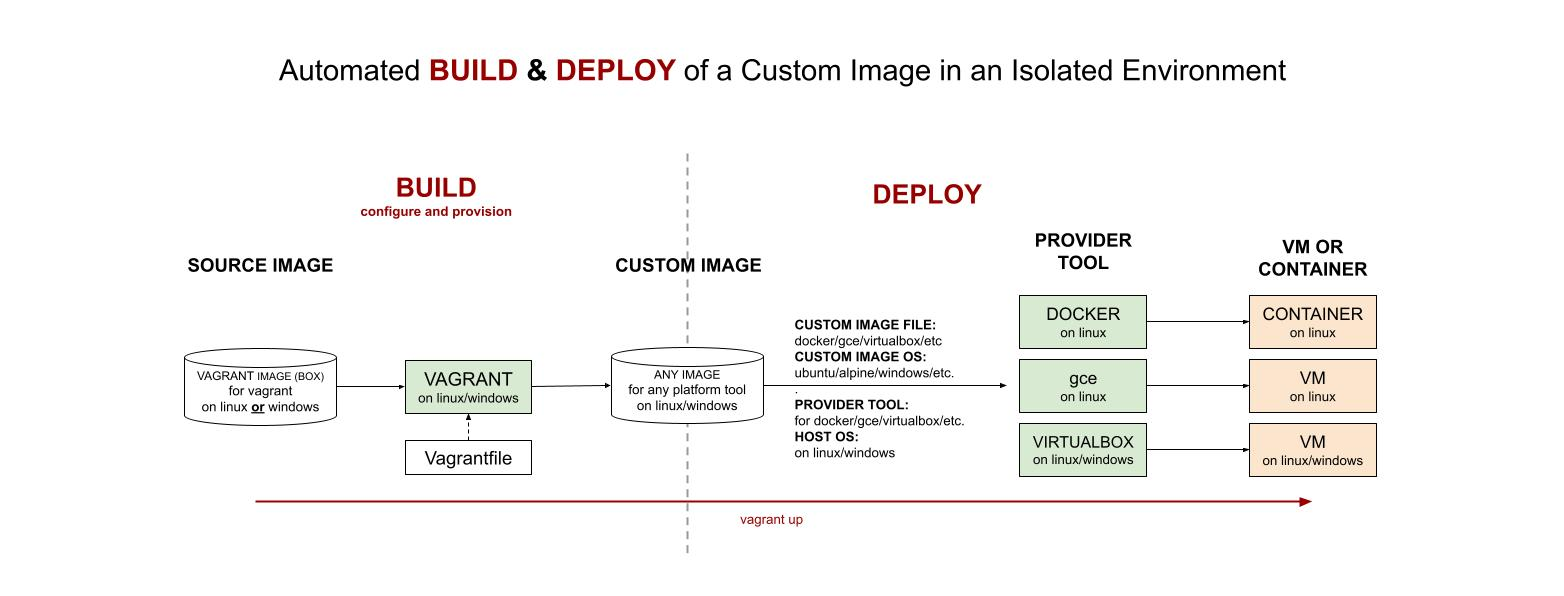
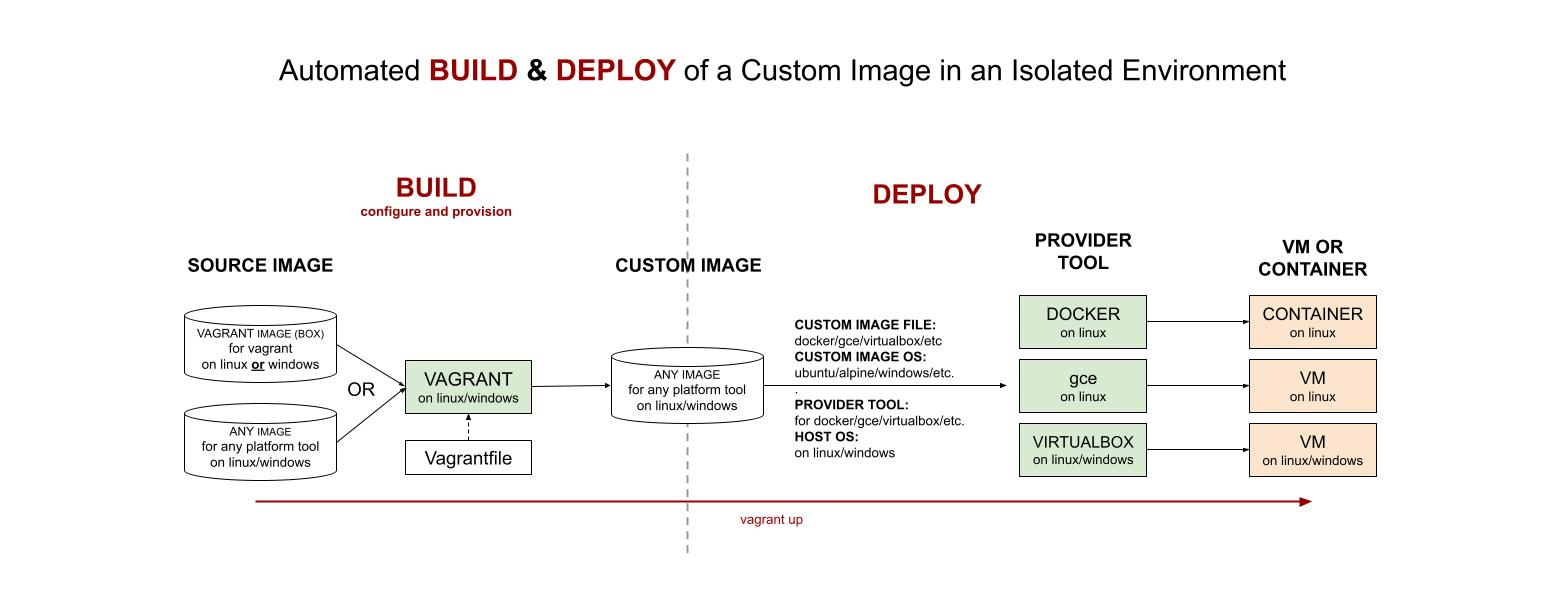
udpated pic and make it clear the srouce image could be vagrant or another type

Changed region(s): [[0.1228, 0.5134, 0.2762, 0.8154]]

diff --git a/README.md b/README.md
@@ -57,12 +57,14 @@ for a project because you only need a Vagrantfile.
 These builds and deploys use the following statement,
 
 **Using vagrant to build a/an {CUSTOM IMAGE FILE} image
+from a {SOURCE IMAGE FILE}
 containing the {CUSTOM IMAGE OS} OS
 to deploy on {PROVIDER TOOL} on {HOST OS}.**
 
 Where,
 
 * **CUSTOM IMAGE FILE**: docker/gce/virtualbox/etc.
+* **SOURCE IMAGE FILE**: docker/gce/virtualbox/etc.
 * **CUSTOM IMAGE OS**: ubuntu/alpine/windows/etc.
 * **PROVIDER TOOL**: docker/gce/virtualbox/etc.
 * **HOST OS**: linux/windows _(not needed)_
@@ -71,9 +73,17 @@ Where,
 
 _I'm not sure anyone would use this since you can just use docker._
 
+* [vagrant-alpine-deploy-docker](https://github.com/JeffDeCola/my-vagrant-boxes/tree/master/docker/vagrant-ubuntu-2004-deploy-docker)
+
+  _Using vagrant to build a docker image
+  **from a docker image**
+  containing the alpine OS
+  to deploy on docker._
+
 * [vagrant-ubuntu-2004-deploy-docker](https://github.com/JeffDeCola/my-vagrant-boxes/tree/master/docker/vagrant-ubuntu-2004-deploy-docker)
 
   _Using vagrant to build a docker image
+  **from a vagrant image**
   containing the ubuntu 20.04 OS
   to deploy on docker._
 
@@ -84,11 +94,13 @@ _You may run this on linux or windows._
 * [vagrant-ubuntu-2204-deploy-virtualbox](https://github.com/JeffDeCola/my-vagrant-boxes/tree/master/virtualbox/vagrant-ubuntu-2204-deploy-virtualbox)
 
   _Using vagrant to build a virtualbox image
+  **from a vagrant image**
   containing the ubuntu 22.04 OS
   to deploy on virtualbox._
 
 * [vagrant-windows-11-deploy-virtualbox](https://github.com/JeffDeCola/my-vagrant-boxes/tree/master/virtualbox/vagrant-windows-11-deploy-virtualbox)
 
   _Using vagrant to build a virtualbox image
+  **from a vagrant image**
   containing the windows 11 OS
   to deploy on virtualbox._

diff --git a/docker/vagrant-alpine-deploy-docker/README.md b/docker/vagrant-alpine-deploy-docker/README.md
@@ -4,8 +4,8 @@
 [![jeffdecola.com](https://img.shields.io/badge/website-jeffdecola.com-blue)](https://jeffdecola.com)
 
 _Using vagrant to build a docker image
-**from a vagrant image**
-containing the ubuntu 20.04 OS
+**from a docker image**
+containing the alpine OS
 to deploy on docker._
 
 Table of Contents

diff --git a/virtualbox/vagrant-ubuntu-2204-deploy-virtualbox/README.md b/virtualbox/vagrant-ubuntu-2204-deploy-virtualbox/README.md
@@ -4,6 +4,7 @@
 [![jeffdecola.com](https://img.shields.io/badge/website-jeffdecola.com-blue)](https://jeffdecola.com)
 
 _Using vagrant to build a virtualbox image
+**from a vagrant image**
 containing the ubuntu 22.04 OS
 to deploy on virtualbox._
 

diff --git a/virtualbox/vagrant-windows-11-deploy-virtualbox/README.md b/virtualbox/vagrant-windows-11-deploy-virtualbox/README.md
@@ -4,6 +4,7 @@
 [![jeffdecola.com](https://img.shields.io/badge/website-jeffdecola.com-blue)](https://jeffdecola.com)
 
 _Using vagrant to build a virtualbox image
+**from a vagrant image**
 containing the windows 11 OS
 to deploy on virtualbox._
 
